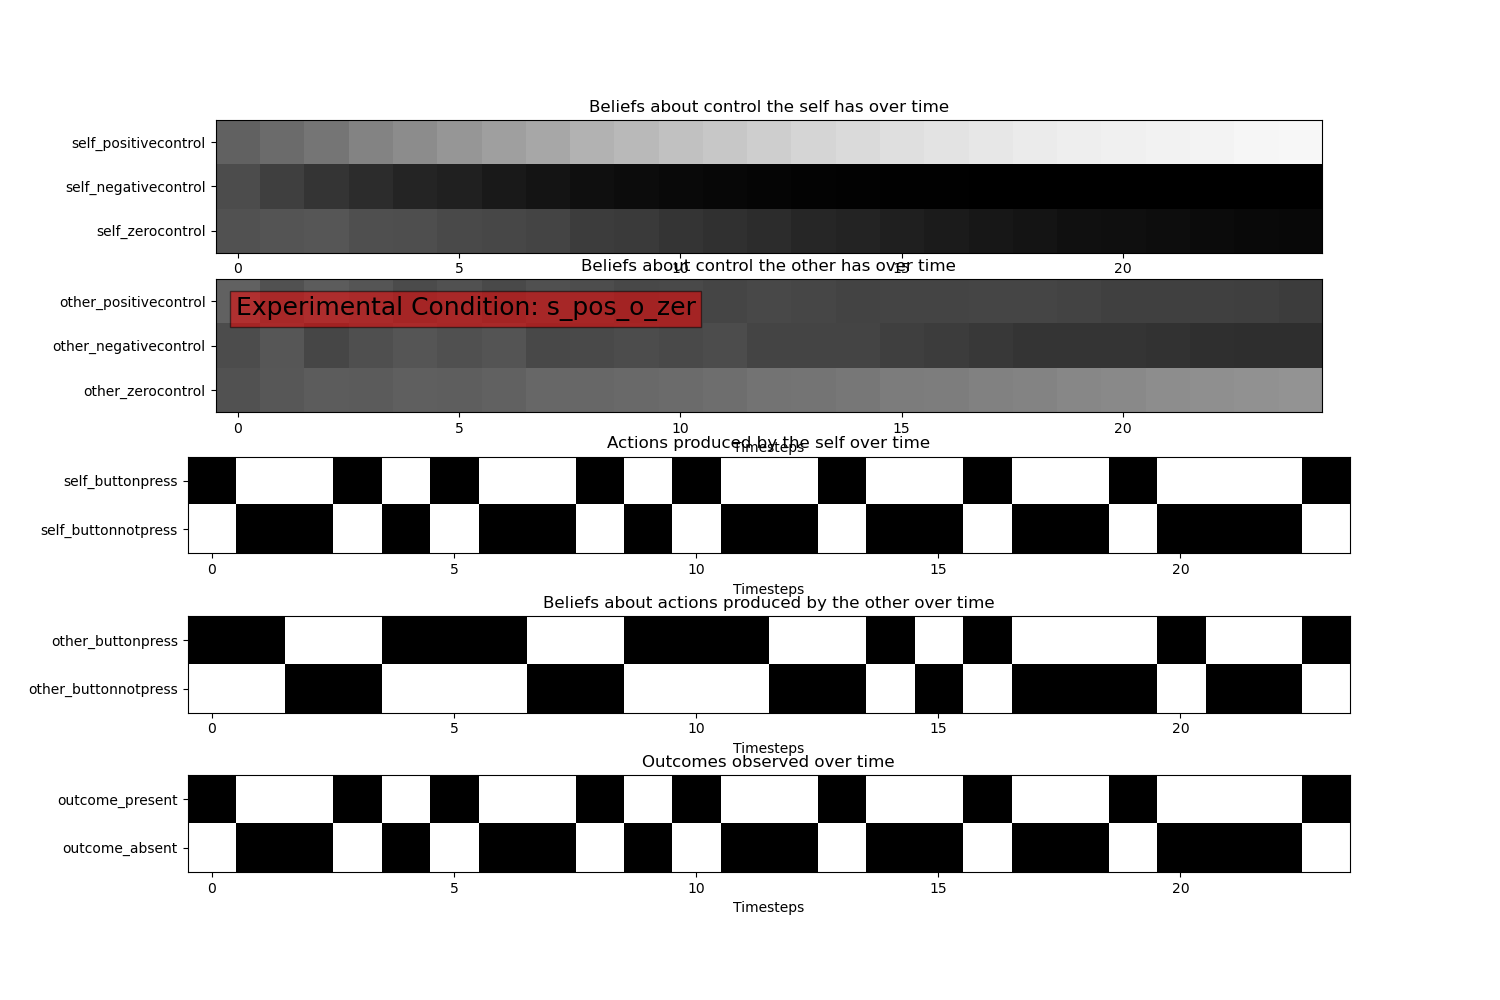
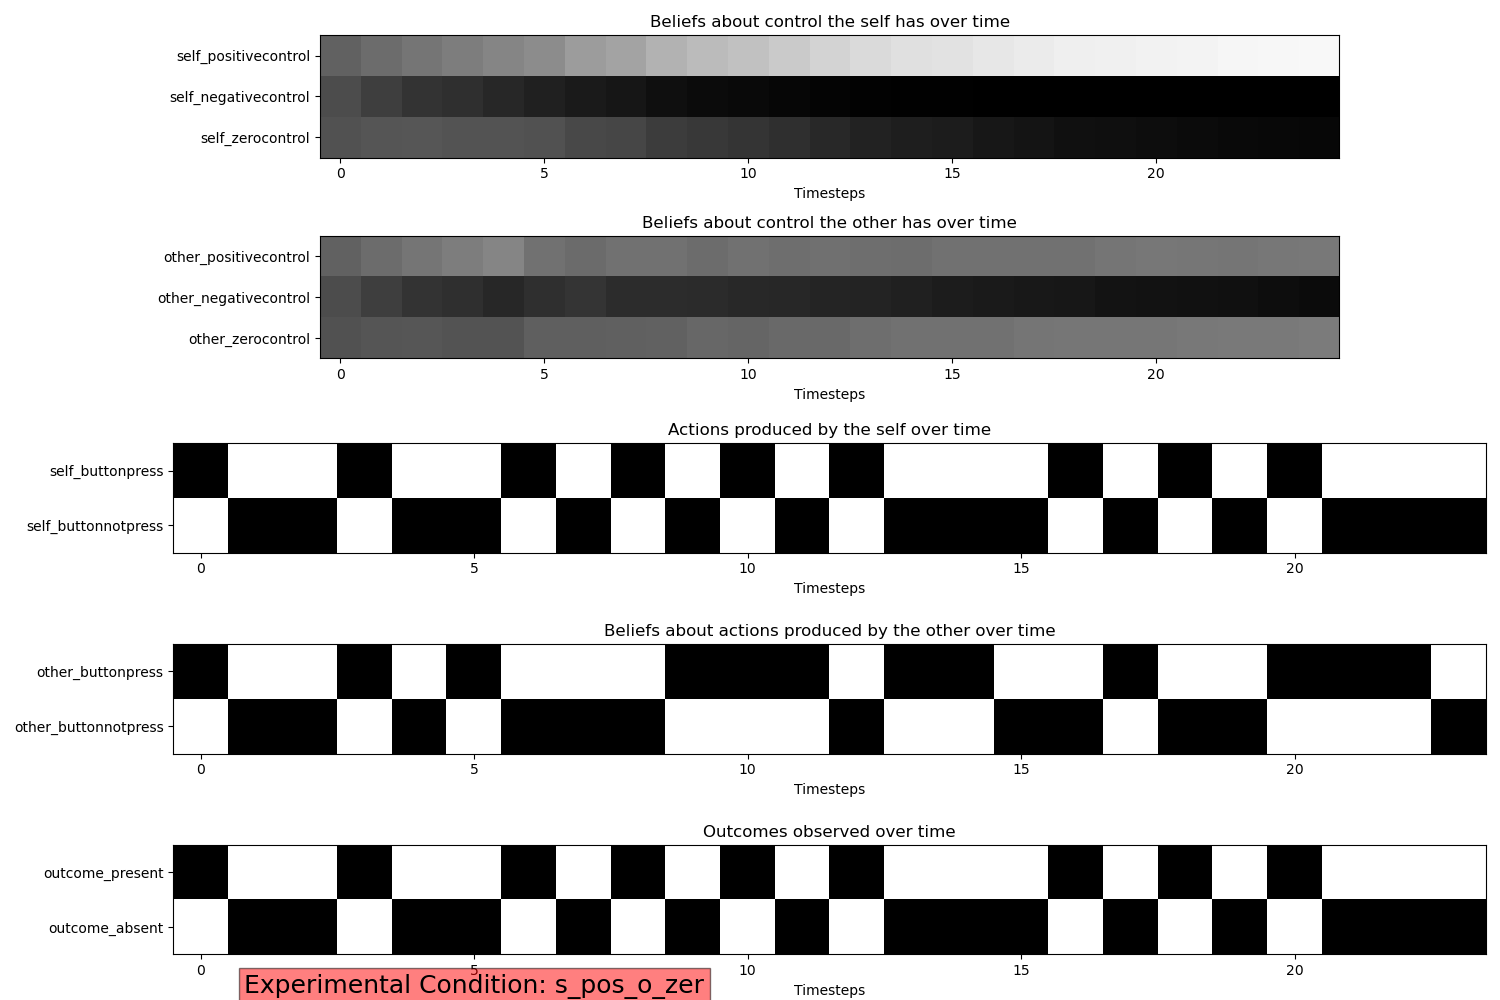
Experiment 2024-02-23-22-45-27

diff --git a/agency_twoagents.py b/agency_twoagents.py
@@ -501,7 +501,7 @@ def plot_all_choices_beliefs(log, env, savefig = 1):
     fig, axes = plt.subplots(nrows = 5, ncols = 1, figsize = (15,10))
     
     exp_cond_text = f'Experimental Condition: {env.expcondition}'
-    plt.text(0.8, 2.2, exp_cond_text, 
+    plt.text(0.0, 0.6, exp_cond_text, transform=plt.gca().transAxes,
              fontsize = 18, bbox = dict(facecolor = 'red', alpha = 0.5))
 
     axes[0].imshow(log['belief_self_context_hist'], cmap = 'gray', vmin=0, vmax=1)
